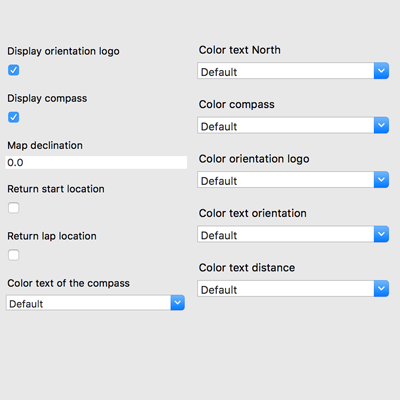
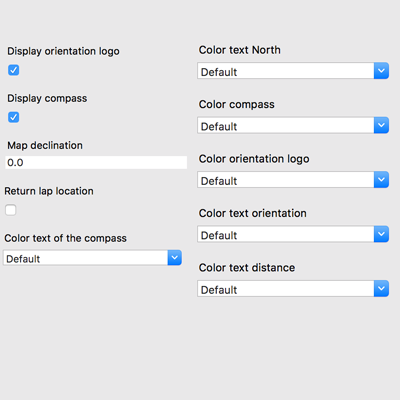
Fix bug release 1.0.0

diff --git a/README.md b/README.md
@@ -1,22 +1,16 @@
-# Connect-IQ-DataField-OC
+# Connect-IQ-DataField-BackToHome
 Datafield for your Orientation Course
 
-If you know the distance as well as the azimuth of your next tag you only have to appate on LAP to indicate your current location. You only have to match the distance and the angle that you have read on your card.
+Indicates the distance and direction to be taken from the starting point of your activity or intermediate point according to your configuration
 
-You can change the settings to tell you the direction and distance back from either your starting point or your reference point indicated by pressing LAP
-
-Compass is always pointing to the real north.
-
-By default the arrow pointing to real north.
-
-![0](https://github.com/ravenfeld/Connect-IQ-DataField-OC/blob/develop/screenshot/0.png)
-![0](https://github.com/ravenfeld/Connect-IQ-DataField-OC/blob/develop/screenshot/1.png)
-![0](https://github.com/ravenfeld/Connect-IQ-DataField-OC/blob/develop/screenshot/2.png)
-![0](https://github.com/ravenfeld/Connect-IQ-DataField-OC/blob/develop/screenshot/3.png)
-![0](https://github.com/ravenfeld/Connect-IQ-DataField-OC/blob/develop/screenshot/4.png)
+![0](https://github.com/ravenfeld/Connect-IQ-DataField-BackToHome/blob/develop/screenshot/0.png)
+![0](https://github.com/ravenfeld/Connect-IQ-DataField-BackToHome/blob/develop/screenshot/1.png)
+![0](https://github.com/ravenfeld/Connect-IQ-DataField-BackToHome/blob/develop/screenshot/2.png)
+![0](https://github.com/ravenfeld/Connect-IQ-DataField-BackToHome/blob/develop/screenshot/3.png)
+![0](https://github.com/ravenfeld/Connect-IQ-DataField-BackToHome/blob/develop/screenshot/4.png)
 
 
 # Link
-[Compass Orientation Course](https://apps.garmin.com/fr-FR/apps/a6a81a09-8883-4ae4-8f9d-21ee347a2d84)
+[Back To Home](https://apps.garmin.com/fr-FR/apps/952fe295-6cea-432f-b7d8-b6024d672e0e)
 
 [All projet](https://apps.garmin.com/fr-FR/developer/9a164185-3030-48d9-9aef-f5351abe70d8/apps)
